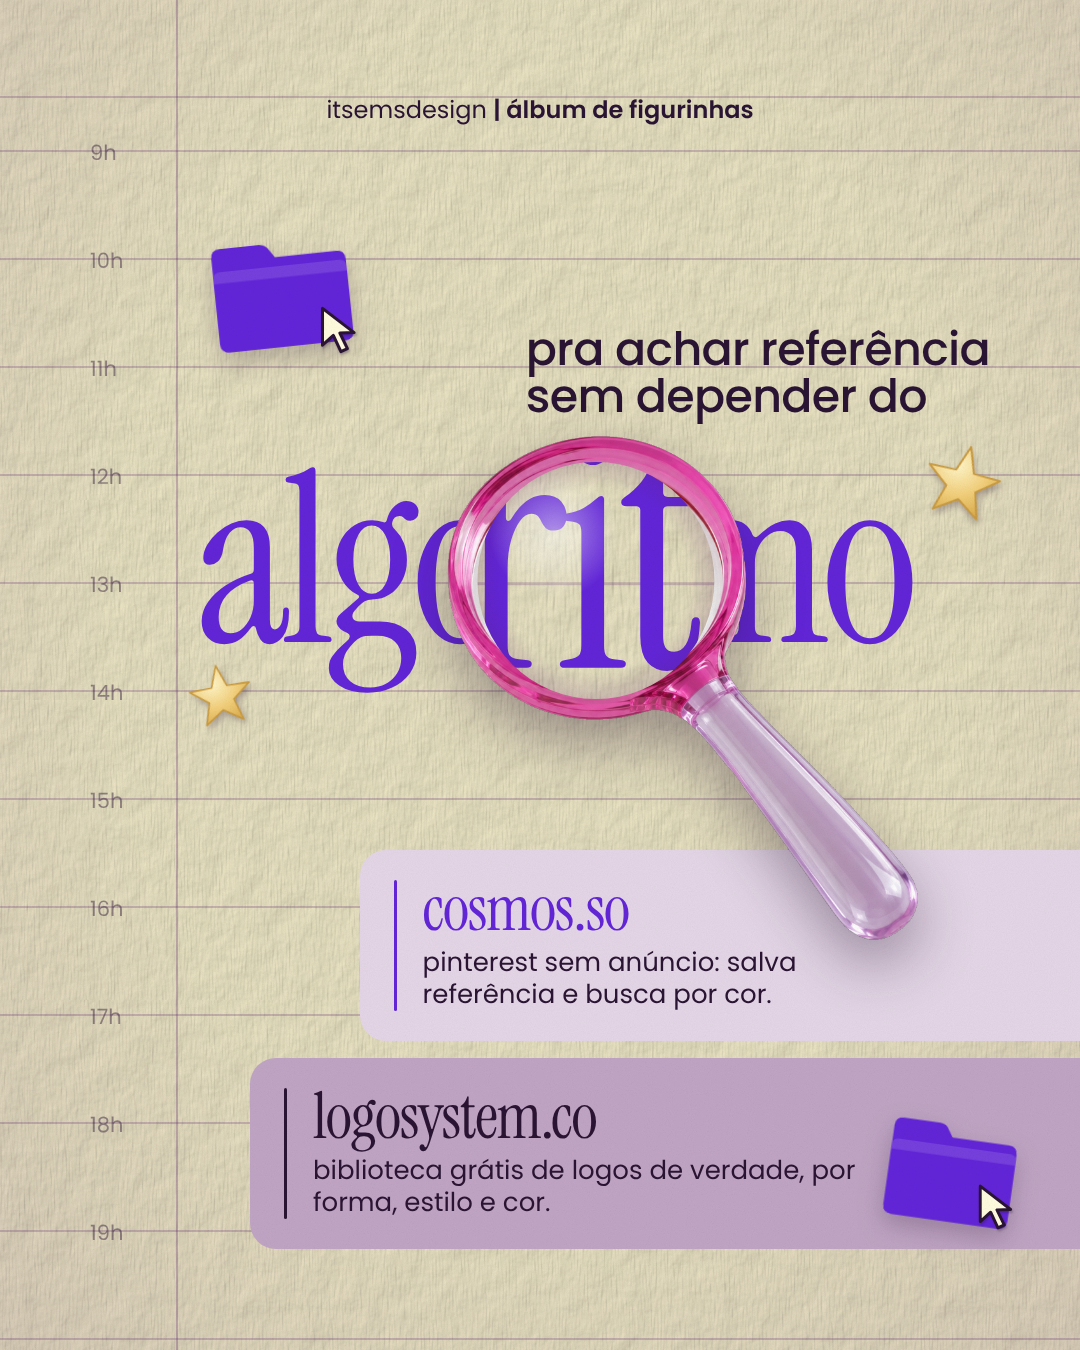
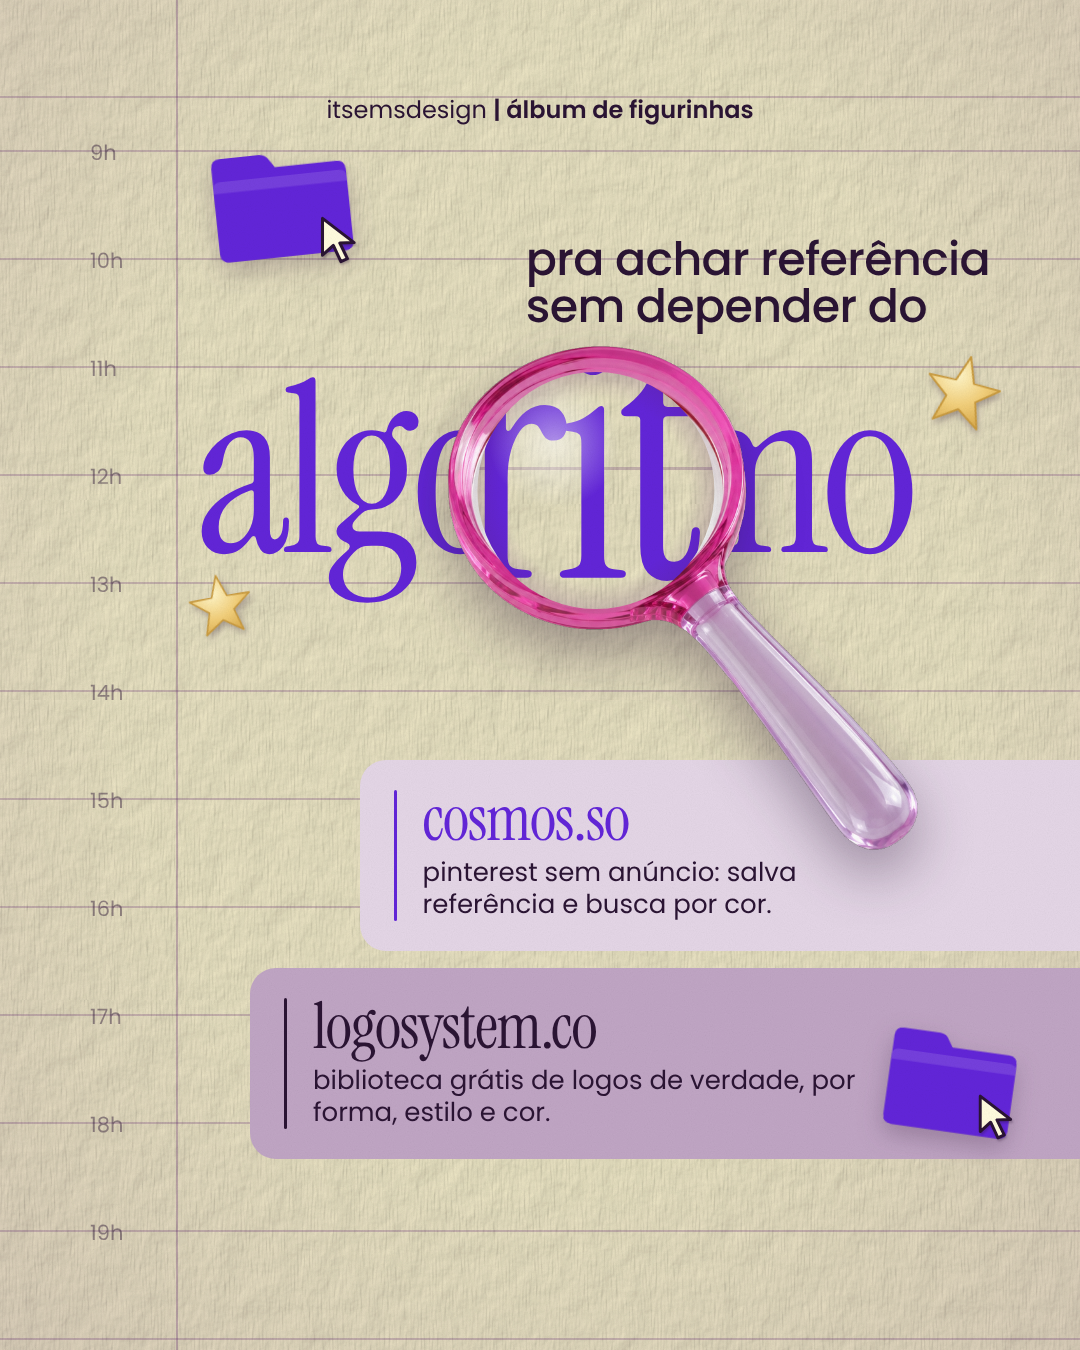
EMS figurinhas raras v4: conteúdo da pesquisa centrado na página
Claude-Session: https://claude.ai/code/session_01CmCiKB9wFc4qQovptupnZT

diff --git a/Emi/ems-album-figurinhas/projeto/carrossel.html b/Emi/ems-album-figurinhas/projeto/carrossel.html
@@ -101,20 +101,20 @@ const FOLHA = `<div class="abs" style="inset:0;background:var(--ivory-2)"></div>
   lamina(1, `
     <div class="abs" style="left:0;right:0;top:92px;text-align:center;font-family:var(--sans);font-size:24px;color:var(--tinta)">itsemsdesign <b style="font-weight:600">| álbum de figurinhas</b></div>
     ${linhas}
-    ${pasta(206, 236, 150, -6, css('violeta'))}
-    ${cursor(316, 304, 52)}
-    <div class="abs" style="right:90px;top:326px;text-align:left;font-family:var(--sans);font-weight:500;font-size:46px;line-height:1.02;color:var(--tinta);letter-spacing:-.015em">pra achar referência<br>sem depender do</div>
-    <div class="g" id="alg" style="left:196px;top:470px;font-size:236px;color:var(--violeta)">algoritmo</div>
-    ${estrela({ x: 920, y: 442, tam: 84, r: 14 })}
-    ${estrela({ x: 186, y: 662, tam: 70, r: -10 })}
-    <div class="barra" style="left:360px;right:0;top:850px;background:var(--lavanda-2)">
+    ${pasta(206, 146, 150, -6, css('violeta'))}
+    ${cursor(316, 214, 52)}
+    <div class="abs" style="right:90px;top:236px;text-align:left;font-family:var(--sans);font-weight:500;font-size:46px;line-height:1.02;color:var(--tinta);letter-spacing:-.015em">pra achar referência<br>sem depender do</div>
+    <div class="g" id="alg" style="left:196px;top:380px;font-size:236px;color:var(--violeta)">algoritmo</div>
+    ${estrela({ x: 920, y: 352, tam: 84, r: 14 })}
+    ${estrela({ x: 186, y: 572, tam: 70, r: -10 })}
+    <div class="barra" style="left:360px;right:0;top:760px;background:var(--lavanda-2)">
       <div class="fio" style="background:var(--violeta)"></div>
       <div><span class="nome" style="color:var(--violeta)">${s1.nome}</span><span class="pra" style="color:var(--tinta)">${s1.pra}</span></div></div>
-    <div class="barra" style="left:250px;right:0;top:1058px;background:var(--lavanda)">
+    <div class="barra" style="left:250px;right:0;top:968px;background:var(--lavanda)">
       <div class="fio" style="background:var(--tinta)"></div>
       <div><span class="nome" style="color:var(--tinta)">${s2.nome}</span><span class="pra" style="color:var(--tinta)">${s2.pra}</span></div></div>
-    ${pasta(880, 1118, 140, 8, css('violeta'))}
-    ${cursor(974, 1182, 50)}
+    ${pasta(880, 1028, 140, 8, css('violeta'))}
+    ${cursor(974, 1092, 50)}
     <img class="objeto" id="lupa" src="recortes/lupa.png" style="left:0;top:0;width:470px">
     <div class="abs" id="lente" style="inset:0"><div class="abs" id="lente-in" style="inset:0">${FOLHA}</div>
       <div class="abs" id="brilho-lente" style="inset:0"></div></div>
